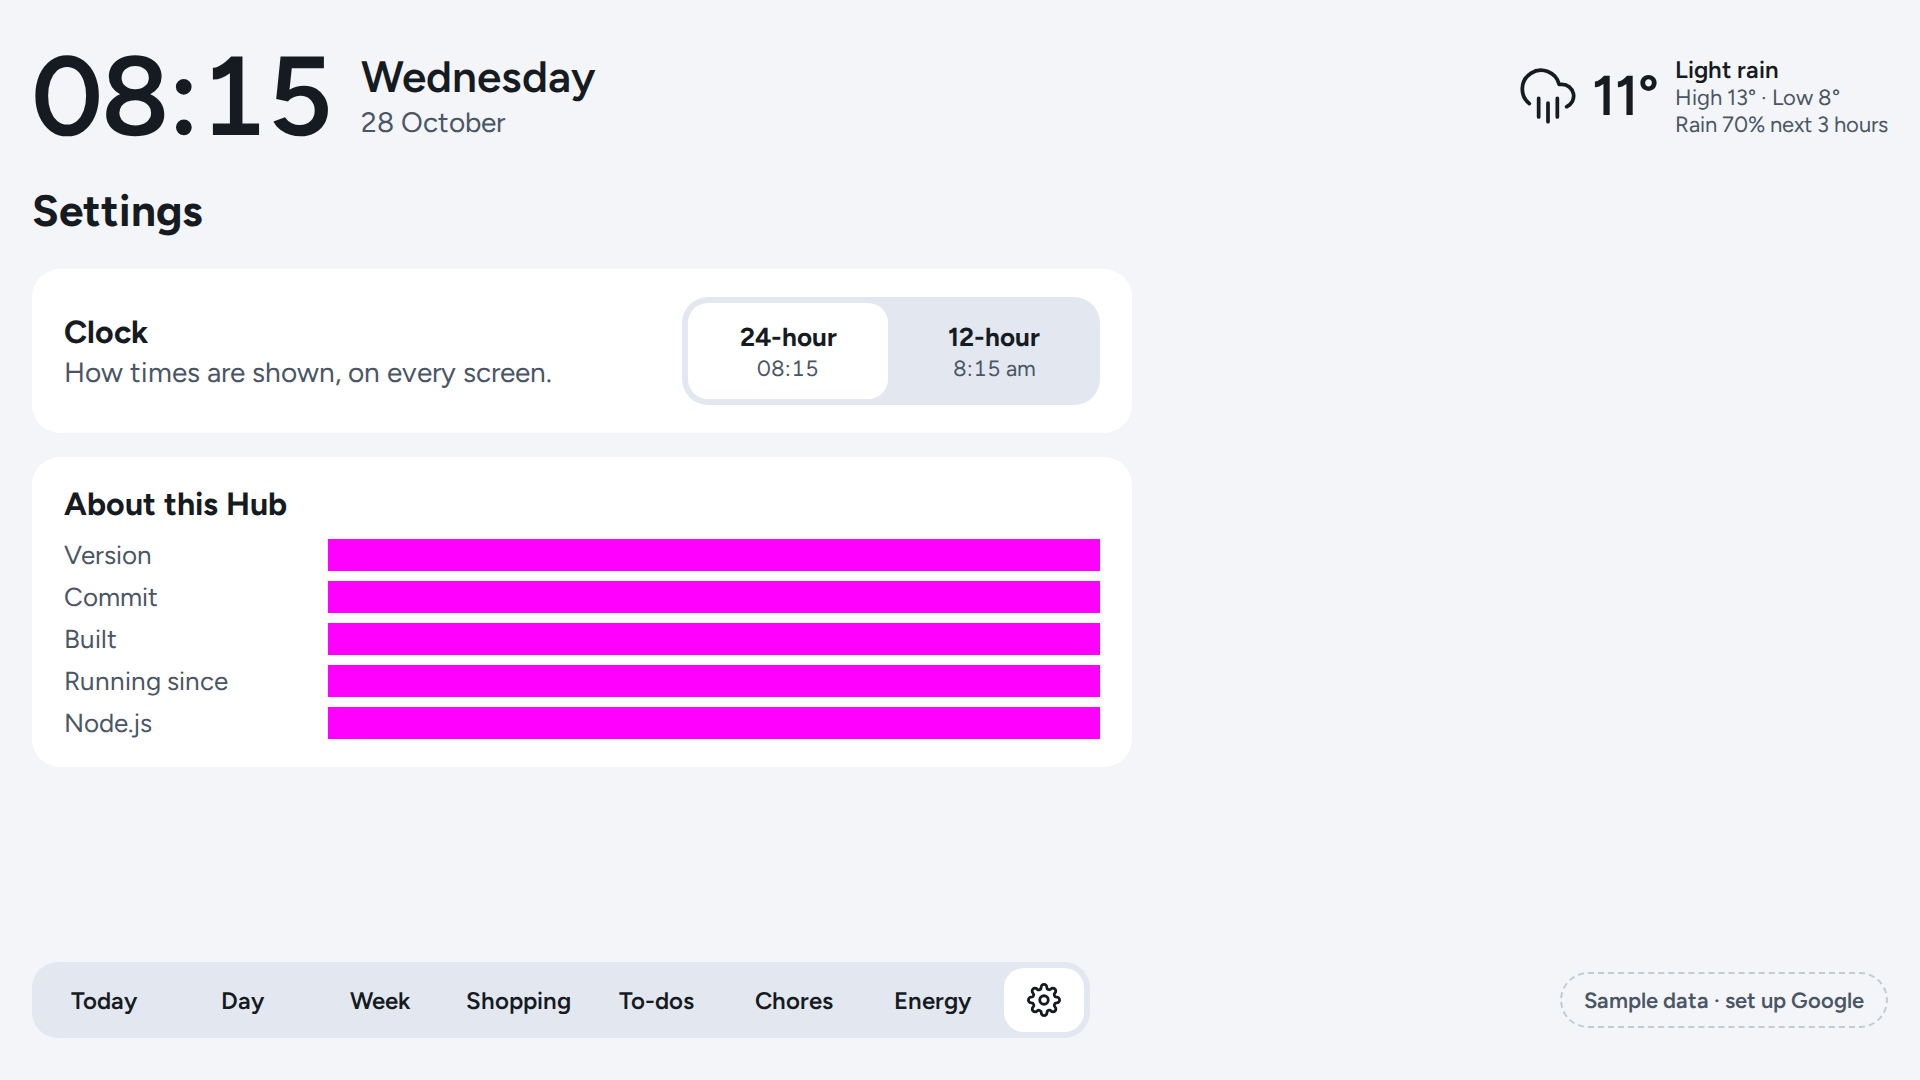
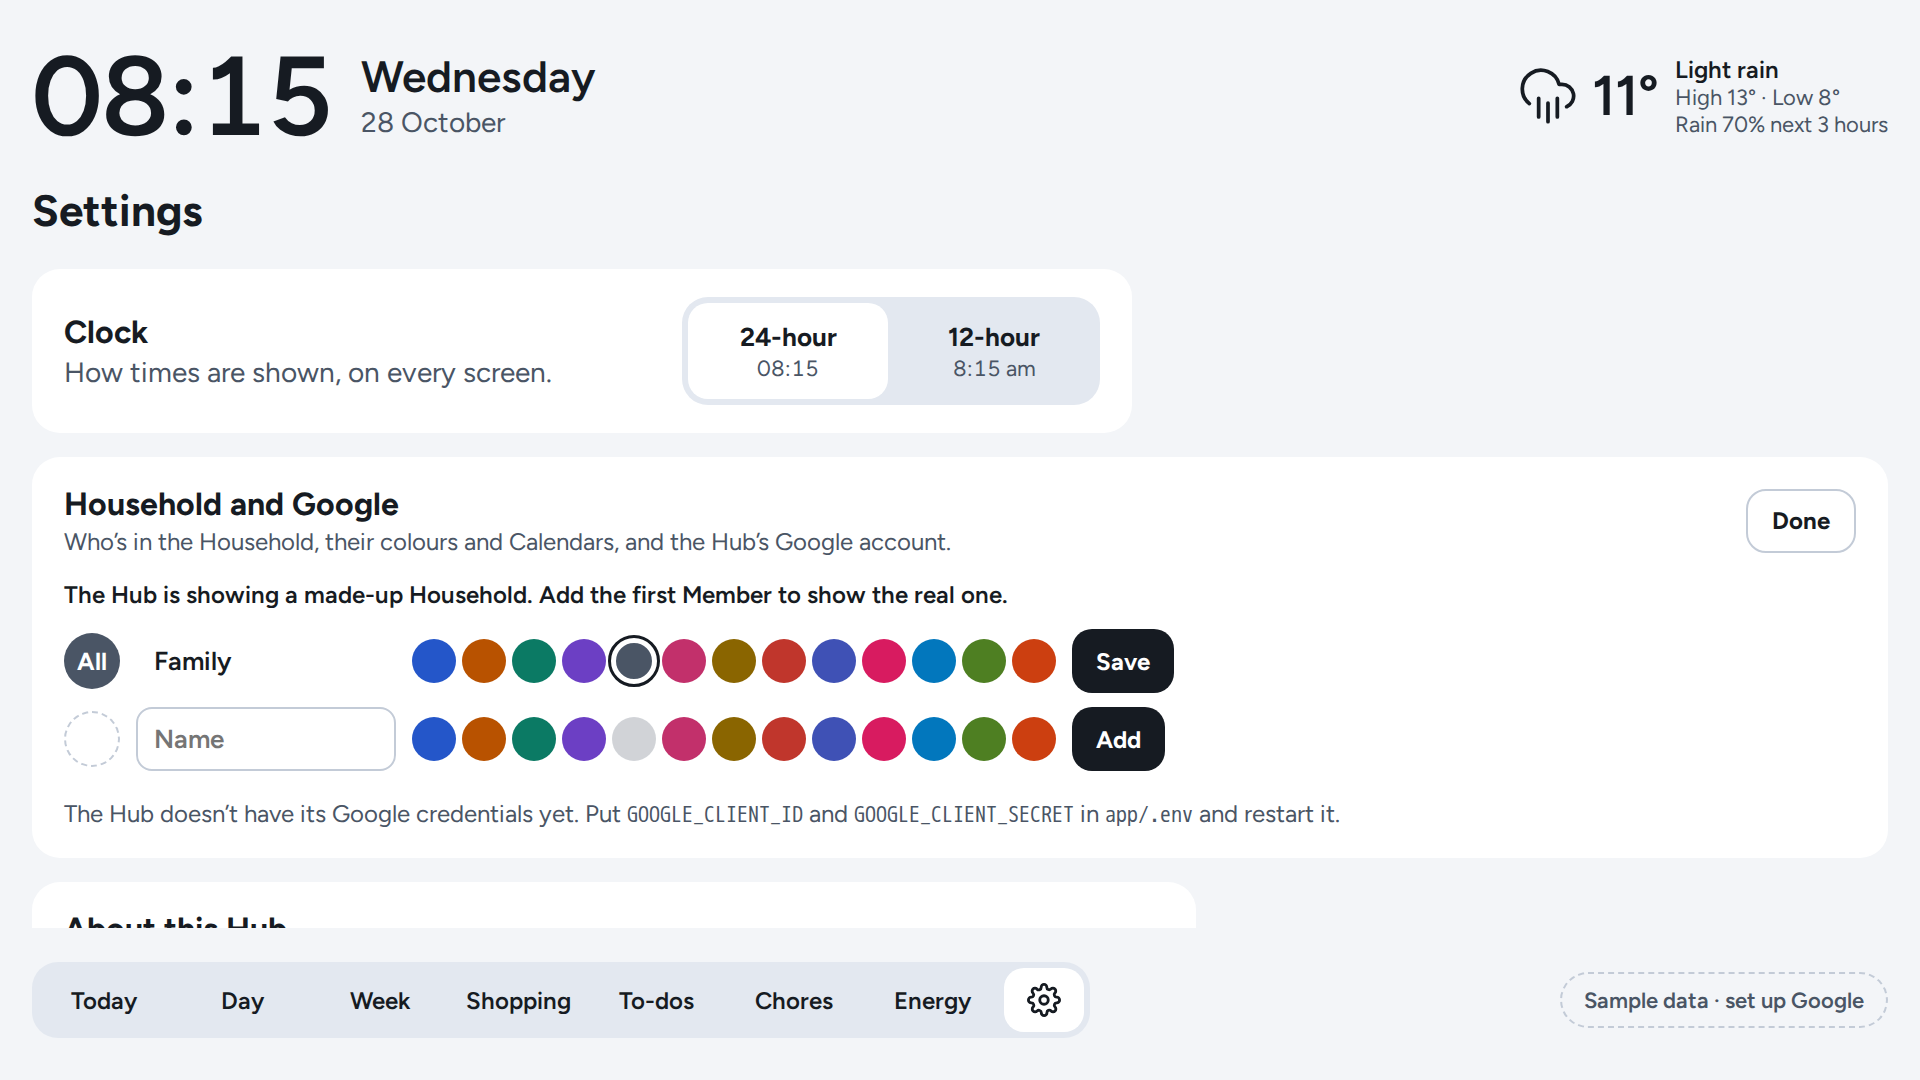
Say in the root README that the Household is set up in Settings
What it does, the Settings screenshot and its words, the milestones, How
it's built and Run it yourself now describe the Household and Google in
Settings and the Hub's database (ADR 0012). Also fixes "from Key Vault.
with an on-screen keyboard" in the Pi milestone.

Claude-Session: https://claude.ai/code/session_01BuxoMcXhuzjMQRjq8AJh5y

Changed region(s): [[0.0312, 0.4583, 0.6875, 0.7639], [0.9062, 0.4583, 0.9688, 0.4889]]

diff --git a/README.md b/README.md
@@ -17,7 +17,7 @@ FamilyHub is a personal project, built by one family for its own kitchen. Buildi
 - **Shows when electricity is cheap, and where it goes.** It reads the Household's Intelligent Octopus Go rates and Smart-charging slots from Octopus, and the Zappi car charger's usage from myenergi. It shows what the house is using now, what today has cost, and when to start the dishwasher, washing machine and tumble drier so they finish while it's cheap. Each half-hour is split into the house and the car.
 - **Fits a busy day without scrolling.** Busy days switch to compact rows, and anything that still doesn't fit goes behind a "+N more" that opens the full day. Nothing is cut off silently.
 - **Types at the wall.** Its own on-screen keyboard opens for any box, and slides the page up so the box stays in view.
-- **Has a few Settings.** A gear in the bottom bar chooses a 24-hour or 12-hour clock, and shows which version is running, when it was built and how long it's been up.
+- **Is set up at the wall.** A gear in the bottom bar opens Settings: a 24-hour or 12-hour clock, the Household's Members with their colours and Calendars, the Shopping and To-do lists, and the Hub's Google account, locked until held for a second. It also shows which version is running, when it was built and how long it's been up.
 - **Looks after itself.** It keeps showing the last plan if the Wi-Fi drops, says when it last updated, and tells the family in plain words when it needs attention.
 - **Stays at home.** It runs on a Raspberry Pi in the kitchen, and nothing on the internet can reach it.
 
@@ -45,8 +45,8 @@ FamilyHub is a personal project, built by one family for its own kitchen. Buildi
 
 | Settings |
 |---|
-| ![Settings: the clock as 24-hour or 12-hour, and About this Hub with the version, commit, build time, how long it's been running and Node.js](docs/images/settings-view.png) |
-| A 24-hour clock unless 12-hour is chosen, for every time on the screen. About this Hub says what's running, to check a release reached the Pi. |
+| ![Settings, unlocked: the clock as 24-hour or 12-hour, and Household and Google with the Family calendar's colour, a row to add a Member with a name and a colour, and a note that Google isn't set up](docs/images/settings-view.png) |
+| A 24-hour clock unless 12-hour is chosen, for every time on the screen. Below it, the Household: each Member's name, colour and Calendar, the Family calendar, the lists and Google, locked until held so nobody changes it by accident. About this Hub says what's running, to check a release reached the Pi. |
 
 The screenshots use the app's built-in sample week, sample Chores, sample To-dos and sample energy, and are copied from the screenshot tests. On the real Hub, the corner shows when the Calendars last updated instead of "Sample data".
 
@@ -69,7 +69,8 @@ The plan is in [docs/requirements.md](docs/requirements.md). Progress so far:
 | ✅ | Home energy: cheap and peak times, when to run the dishwasher, the car’s share, and its charge ([design](design/mockups/energy/notes.md)) | Done, on a PC |
 | ✅ | To-dos from Google Tasks, one-off and repeating ([design](design/mockups/todos/notes.md)) | Done, on a PC |
 | ✅ | Settings, Google Calendar's colours, and tapping an Event for its details | Done, on a PC |
-| ⬜ | A Raspberry Pi set up from scripts, showing the Hub full-screen | In progress: set up from scripts, pulling its own releases, full-screen, with its settings and secrets from Key Vault. with an on-screen keyboard. Still to come: the screen powering down for Sleep |
+| ✅ | The Household set up in Settings and kept in the Hub's database, not the Key Vault ([ADR 0012](docs/adr/0012-household-and-settings-in-the-hub-database.md)) | Done, on a PC |
+| ⬜ | A Raspberry Pi set up from scripts, showing the Hub full-screen | In progress: set up from scripts, pulling its own releases, full-screen, with its secrets from the Key Vault, and an on-screen keyboard. Still to come: the screen powering down for Sleep |
 | ⬜ | On the kitchen wall: **v1** | |
 | ⬜ | The Shopping list and To-dos in a backend of the Hub's own, with a family app for phones ([design](design/family-app/notes.md)) | In progress: the backend's Azure resources are built. Still to come: sign-in, the lists, and the app |
 | ⬜ | Recipe videos from a YouTube playlist | After v1 |
@@ -85,7 +86,7 @@ v1 is done when it's been on the wall for two weeks and nobody goes back to chec
 - **Data:** Google Calendar (read-only) and Google Tasks, signed in as the Household's one Google account. Weather from Open-Meteo.
 - **Hardware:** a Raspberry Pi 5 with a 1080p touchscreen, provisionally a 21.5″ Waveshare (not bought yet), running the app full-screen in Chromium inside cage, with no desktop behind it ([why a Pi](docs/adr/0001-web-app-on-raspberry-pi.md), [the kiosk](docs/adr/0009-kiosk-is-chromium-in-cage.md)).
 - **Hosting:** none. Everything runs on the Pi and nothing is reachable from the internet ([ADR 0002](docs/adr/0002-everything-runs-on-the-pi.md)). The Pi pulls its own releases and rolls back if one is unhealthy ([ADR 0004](docs/adr/0004-pi-pulls-releases.md)).
-- **Data:** Chores, the Hub's own data, live in SQLite on the Pi, backed up nightly to Google Drive ([ADR 0006](docs/adr/0006-hub-owned-data-in-sqlite.md)). The Calendar choices and Settings are kept in a file beside it.
+- **Data:** the Hub's own data lives in SQLite on the Pi, backed up nightly to Google Drive: the Chores' record ([ADR 0006](docs/adr/0006-hub-owned-data-in-sqlite.md)), and the Household and everything chosen in Settings ([ADR 0012](docs/adr/0012-household-and-settings-in-the-hub-database.md)). The Key Vault holds only secrets.
 - **Monitoring:** OpenTelemetry to Azure Application Insights, with anything personal stripped before it leaves the house ([ADR 0005](docs/adr/0005-telemetry-via-otel-collector-to-app-insights.md)).
 - **Azure:** the Key Vault, Application Insights, and the family app's backend (Azure Functions on Flex Consumption, Cosmos DB and Web PubSub, [ADR 0010](docs/adr/0010-shared-lists-in-an-azure-backend-with-an-installable-family-app.md), [ADR 0011](docs/adr/0011-backend-runs-on-functions-flex-consumption.md)) are built from Bicep by an Azure DevOps pipeline, resource group included, in FamilyHub's own subscription, on free tiers unless something billable has been approved ([ADR 0008](docs/adr/0008-azure-resources-from-bicep-through-azure-devops.md)).
 
@@ -99,7 +100,7 @@ npm install
 npm run dev
 ```
 
-Open <http://localhost:5173>. It starts with sample data. To show real Google Calendars and the Shopping list, follow [the Google Cloud runbook](docs/runbooks/google-cloud-setup.md), then choose **Sample data · set up Google** in the corner. More detail is in [app/README.md](app/README.md).
+Open <http://localhost:5173>. It starts with sample data. To show real Google Calendars and the Shopping list, follow [the Google Cloud runbook](docs/runbooks/google-cloud-setup.md), then choose **Sample data · set up Google** in the corner, unlock Household and Google, sign in, and add the Household. More detail is in [app/README.md](app/README.md).
 
 ## Find your way around
 
